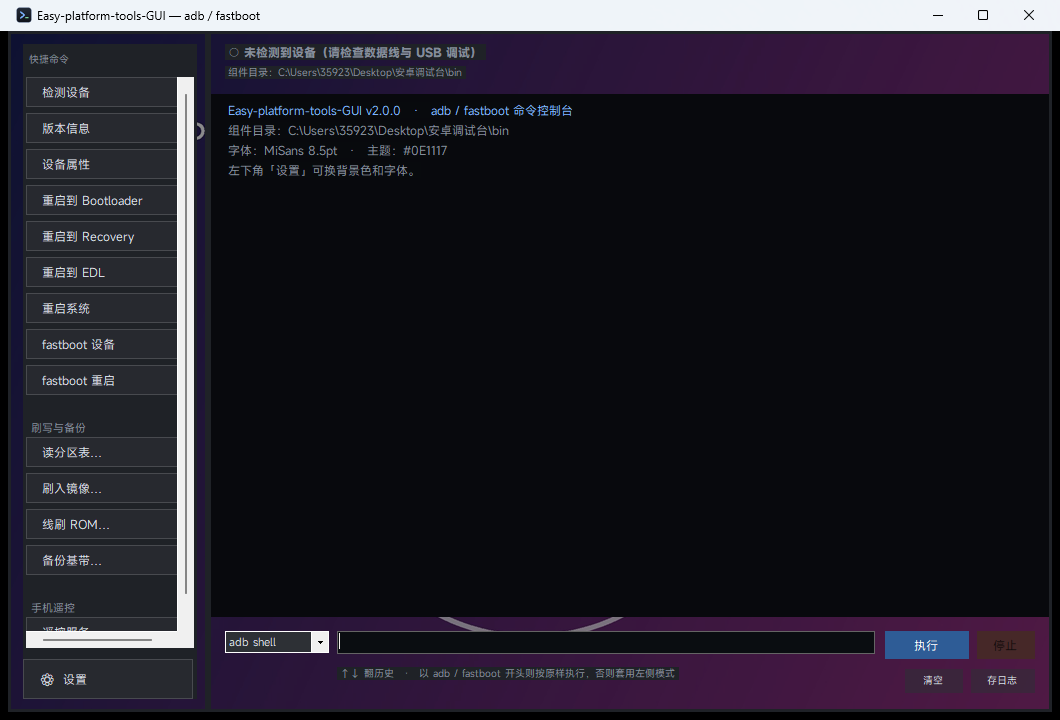
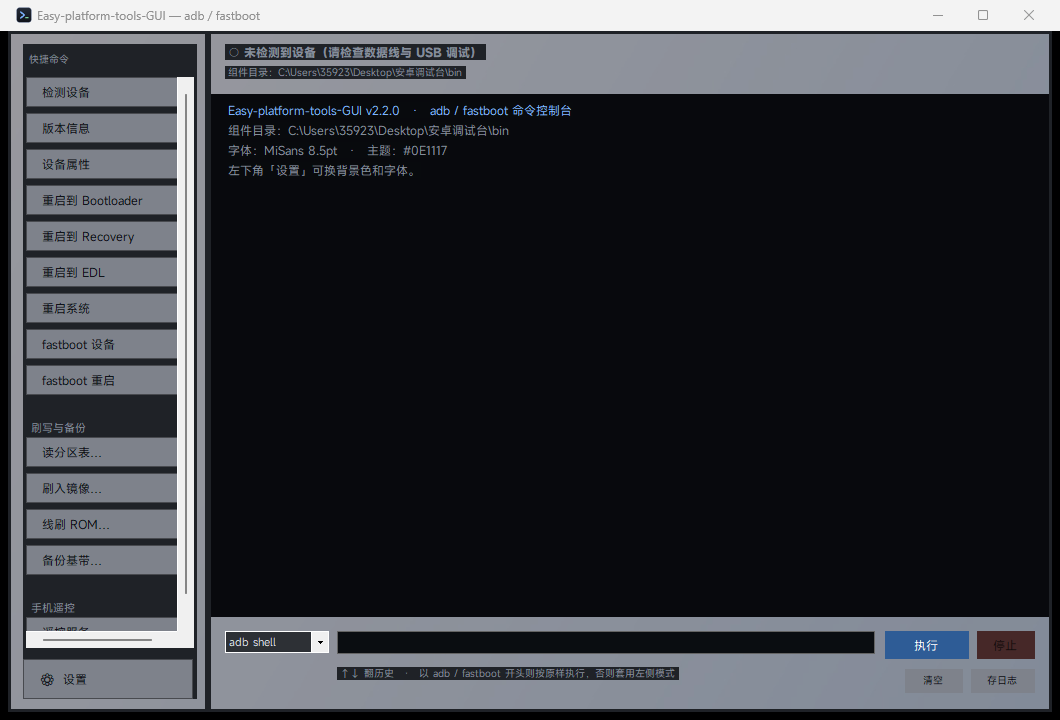
feat: 安卓沉浸状态栏；双端按钮文字按 WCAG 对比度自动黑白反色 (v2.3.0)

Changed region(s): [[0.0, 0.0, 0.9962, 1.0]]

diff --git a/android/src/com/easypt/gui/MainActivity.java b/android/src/com/easypt/gui/MainActivity.java
@@ -61,7 +61,7 @@ public class MainActivity extends Activity {
     private static final int MODE_OTG = 0, MODE_LOCAL = 1, MODE_REMOTE = 2;
     private static final int REQ_IMAGE = 1001, REQ_ROM = 1002, REQ_ROM_DIR = 1003, REQ_WALL = 1004;
     private static final String ACTION_USB_PERM = "com.easypt.gui.USB_PERMISSION";
-    private static final String VER = "2.2.0";
+    private static final String VER = "2.3.0";
 
     /** 8 套背景色，和桌面版一致 */
     private static final int[] BG = {
@@ -74,6 +74,7 @@ public class MainActivity extends Activity {
     private float scale = 1.0f;
     private String lang = "zh";
     private int btnAlpha = 90;
+    private int backdrop = 0;    // 壁纸平均色，用于自动黑白字
 
     private int cBg, cPanel, cText, cDim, cAccent, cOk, cErr, cBtn, cRun, cInput, cOut;
 
@@ -110,6 +111,7 @@ public class MainActivity extends Activity {
         pendingPart = store.getString("part", "boot");
         applyColors();
 
+        enableImmersive();
         buildUi();
         registerReceiver(usbReceiver, new IntentFilter(ACTION_USB_PERM));
         fb = new FastbootUsb(new FastbootUsb.Logger() {
@@ -155,6 +157,82 @@ public class MainActivity extends Activity {
 
     private int dp(int v) { return (int) (v * getResources().getDisplayMetrics().density); }
 
+    /** 让内容画到状态栏/导航栏下面，并按 insets 留出安全边距 */
+    private void enableImmersive() {
+        android.view.Window w = getWindow();
+        w.setStatusBarColor(Color.TRANSPARENT);
+        w.setNavigationBarColor(Color.TRANSPARENT);
+        if (Build.VERSION.SDK_INT >= 30) {
+            w.setDecorFitsSystemWindows(false);
+        } else {
+            w.getDecorView().setSystemUiVisibility(
+                    android.view.View.SYSTEM_UI_FLAG_LAYOUT_STABLE
+                            | android.view.View.SYSTEM_UI_FLAG_LAYOUT_FULLSCREEN
+                            | android.view.View.SYSTEM_UI_FLAG_LAYOUT_HIDE_NAVIGATION);
+        }
+    }
+
+    /** 深色状态栏图标与否：亮背景要黑图标 */
+    private void applyStatusBarIcons(boolean darkIcons) {
+        android.view.View dv = getWindow().getDecorView();
+        int flags = dv.getSystemUiVisibility();
+        if (Build.VERSION.SDK_INT >= 30) {
+            android.view.WindowInsetsController c = getWindow().getInsetsController();
+            if (c != null) {
+                c.setSystemBarsAppearance(darkIcons ? android.view.WindowInsetsController.APPEARANCE_LIGHT_STATUS_BARS : 0,
+                        android.view.WindowInsetsController.APPEARANCE_LIGHT_STATUS_BARS);
+            }
+            return;
+        }
+        if (darkIcons) { flags |= android.view.View.SYSTEM_UI_FLAG_LIGHT_STATUS_BAR; }
+        else { flags &= ~android.view.View.SYSTEM_UI_FLAG_LIGHT_STATUS_BAR; }
+        dv.setSystemUiVisibility(flags);
+    }
+
+    private int blendOver(int fg, int alphaPct, int bg) {
+        float a = Math.max(0, Math.min(100, alphaPct)) / 100f;
+        return Color.rgb(
+                (int) (Color.red(fg) * a + Color.red(bg) * (1 - a)),
+                (int) (Color.green(fg) * a + Color.green(bg) * (1 - a)),
+                (int) (Color.blue(fg) * a + Color.blue(bg) * (1 - a)));
+    }
+
+    /** 按背景亮度选黑字或白字 */
+    private boolean isLight(int color) {
+        return (0.299 * Color.red(color) + 0.587 * Color.green(color) + 0.114 * Color.blue(color)) > 145;
+    }
+
+    private int textOn(int bgColor) {
+        double l = relLum(bgColor);
+        double withWhite = 1.05 / (l + 0.05);
+        double withBlack = (l + 0.05) / 0.05;
+        return withBlack >= withWhite ? 0xFF10131A : 0xFFF4F7FB;
+    }
+
+    private double relLum(int c) {
+        return 0.2126 * ch(Color.red(c)) + 0.7152 * ch(Color.green(c)) + 0.0722 * ch(Color.blue(c));
+    }
+
+    private double ch(int v) {
+        double s = v / 255.0;
+        return s <= 0.03928 ? s / 12.92 : Math.pow((s + 0.055) / 1.055, 2.4);
+    }
+
+    private int averageColor(android.graphics.Bitmap b) {
+        if (b == null) { return cOut; }
+        long r = 0, g = 0, bl = 0;
+        int n = 0;
+        int sx = Math.max(1, b.getWidth() / 40), sy = Math.max(1, b.getHeight() / 40);
+        for (int y = 0; y < b.getHeight(); y += sy) {
+            for (int x = 0; x < b.getWidth(); x += sx) {
+                int p = b.getPixel(x, y);
+                r += Color.red(p); g += Color.green(p); bl += Color.blue(p); n++;
+            }
+        }
+        if (n == 0) { return cOut; }
+        return Color.rgb((int) (r / n), (int) (g / n), (int) (bl / n));
+    }
+
     private boolean hasWall() {
         String wp = store.getString("wall", "");
         return wp.length() > 0 && new File(wp).exists();
@@ -169,9 +247,12 @@ public class MainActivity extends Activity {
         android.graphics.Bitmap wallBmp = wp.length() > 0 ? fitToScreen(android.graphics.BitmapFactory.decodeFile(wp)) : null;
         if (wallBmp != null) {
             root.setBackground(new android.graphics.drawable.BitmapDrawable(getResources(), wallBmp));
+            backdrop = averageColor(wallBmp);
         } else {
             root.setBackgroundColor(cBg);
+            backdrop = cOut;
         }
+        applyStatusBarIcons(isLight(backdrop));
         root.setPadding(dp(12), dp(10), dp(12), dp(10));
 
         TextView title = new TextView(this);
@@ -275,8 +356,8 @@ public class MainActivity extends Activity {
         inputRow.addView(input, ilp);
 
         Button runBtn = smallBtn(T("执行", "Run"));
-        runBtn.setBackgroundColor(cRun);
-        runBtn.setTextColor(Color.WHITE);
+        runBtn.setBackground(pill(cRun, 10));
+        runBtn.setTextColor(textOn(blendOver(cRun, Math.max(60, btnAlpha), backdrop)));
         runBtn.setLayoutParams(new LinearLayout.LayoutParams(dp(84), dp(48)));
         runBtn.setOnClickListener(new View.OnClickListener() {
             public void onClick(View v) { runTyped(); }
@@ -284,7 +365,24 @@ public class MainActivity extends Activity {
         inputRow.addView(runBtn);
         root.addView(inputRow);
 
+        root.setOnApplyWindowInsetsListener(new View.OnApplyWindowInsetsListener() {
+            public android.view.WindowInsets onApplyWindowInsets(View v, android.view.WindowInsets insets) {
+                int top, bottom, left, right;
+                if (Build.VERSION.SDK_INT >= 30) {
+                    android.graphics.Insets i = insets.getInsets(android.view.WindowInsets.Type.systemBars());
+                    top = i.top; bottom = i.bottom; left = i.left; right = i.right;
+                } else {
+                    top = insets.getSystemWindowInsetTop();
+                    bottom = insets.getSystemWindowInsetBottom();
+                    left = insets.getSystemWindowInsetLeft();
+                    right = insets.getSystemWindowInsetRight();
+                }
+                v.setPadding(dp(12) + left, dp(10) + top, dp(12) + right, dp(10) + bottom);
+                return insets;
+            }
+        });
         setContentView(root);
+        root.requestApplyInsets();
     }
 
     private Button smallBtn(String text) {
@@ -292,7 +390,8 @@ public class MainActivity extends Activity {
         b.setText(text);
         b.setAllCaps(false);
         b.setTextSize(13 * scale);
-        b.setTextColor(cText);
+        int base = blendOver(cBtn, btnAlpha, backdrop);
+        b.setTextColor(textOn(base));
         b.setBackground(pill(cBtn, 10));
         b.setPadding(dp(10), dp(6), dp(10), dp(6));
         b.setMinHeight(dp(46));

diff --git a/src/EasyPlatformTools.cs b/src/EasyPlatformTools.cs
@@ -28,7 +28,7 @@ namespace EasyPlatformTools
 
         private const int ATTACH_PARENT_PROCESS = -1;
 
-        private const string AppVersion = "2.2.0";
+        private const string AppVersion = "2.3.0";
         private const string AppRepo = "https://github.com/moqi12386/Easy-platform-tools-GUI";
 
         // 首次运行时自动下载的镜像源：按顺序尝试，全部为官方或与官方逐字节一致的镜像
@@ -315,6 +315,7 @@ namespace EasyPlatformTools
         private static string remoteToken = "";
         private static string wallpaperPath = "";
         private static int btnAlpha = 100;
+        private static Color backdrop = Color.FromArgb(20, 22, 28);   // 用于自动黑白字
         private static string lastPtSource = "";
 
         private enum Role { Text, Cmd, Err, Ok, Dim, Warn }
@@ -1446,10 +1447,82 @@ namespace EasyPlatformTools
         }
 
         /// <summary>壁纸：把原图压暗后铺满窗体，面板设为透明让壁纸透出来</summary>
+        /// <summary>按背景亮度返回黑字或白字</summary>
+        /// <summary>按 WCAG 对比度选黑字或白字（比固定亮度阈值更靠谱）</summary>
+        private static Color ContrastText(Color bg)
+        {
+            double l = RelLum(bg);
+            double withWhite = 1.05 / (l + 0.05);
+            double withBlack = (l + 0.05) / 0.05;
+            return withBlack >= withWhite ? Color.FromArgb(16, 19, 24) : Color.FromArgb(244, 246, 250);
+        }
+
+        private static double RelLum(Color c)
+        {
+            double r = Channel(c.R), g = Channel(c.G), b = Channel(c.B);
+            return 0.2126 * r + 0.7152 * g + 0.0722 * b;
+        }
+
+        private static double Channel(int v)
+        {
+            double s = v / 255.0;
+            return s <= 0.03928 ? s / 12.92 : Math.Pow((s + 0.055) / 1.055, 2.4);
+        }
+
+        /// <summary>把带 alpha 的颜色压到底色上，得到实际观感</summary>
+        private static Color Flatten(Color c, Color over)
+        {
+            if (c.A == 255) { return c; }
+            double a = c.A / 255.0;
+            return Color.FromArgb(255,
+                (int)(c.R * a + over.R * (1 - a)),
+                (int)(c.G * a + over.G * (1 - a)),
+                (int)(c.B * a + over.B * (1 - a)));
+        }
+
+        /// <summary>按透明度把按钮色混到背景上，得到等效的不透明色（WinForms 子控件不支持真透明）</summary>
+        private static void ApplyButtonColors(Theme t)
+        {
+            foreach (Button b in menuButtons)
+            {
+                b.BackColor = WithAlpha(t.Btn);
+                b.ForeColor = ContrastText(b.BackColor);
+            }
+            if (btnClear != null) { btnClear.BackColor = WithAlpha(t.Btn); btnClear.ForeColor = ContrastText(btnClear.BackColor); }
+            if (btnSave != null) { btnSave.BackColor = WithAlpha(t.Btn); btnSave.ForeColor = ContrastText(btnSave.BackColor); }
+            if (btnSettings != null) { btnSettings.BackColor = WithAlpha(t.Btn); btnSettings.ForeColor = ContrastText(btnSettings.BackColor); }
+        }
+
         private static Color WithAlpha(Color c)
         {
             if (btnAlpha >= 100) { return c; }
-            return Color.FromArgb(Math.Max(0, Math.Min(100, btnAlpha)) * 255 / 100, c.R, c.G, c.B);
+            double a = Math.Max(0, Math.Min(100, btnAlpha)) / 100.0;
+            return Color.FromArgb(255,
+                (int)(c.R * a + backdrop.R * (1 - a)),
+                (int)(c.G * a + backdrop.G * (1 - a)),
+                (int)(c.B * a + backdrop.B * (1 - a)));
+        }
+
+        private static Color AverageColor(Bitmap bmp, Color veil)
+        {
+            try
+            {
+                long r = 0, g = 0, b = 0;
+                int n = 0;
+                int sx = Math.Max(1, bmp.Width / 40), sy = Math.Max(1, bmp.Height / 40);
+                for (int y = 0; y < bmp.Height; y += sy)
+                {
+                    for (int x = 0; x < bmp.Width; x += sx)
+                    {
+                        Color p = bmp.GetPixel(x, y);
+                        r += p.R; g += p.G; b += p.B; n++;
+                    }
+                }
+                if (n == 0) { return veil; }
+                Color avg = Color.FromArgb(255, (int)(r / n), (int)(g / n), (int)(b / n));
+                return Flatten(veil, avg);
+            }
+            catch { return veil; }
         }
 
         private static void ApplyWallpaper(Theme t)
@@ -1459,6 +1532,7 @@ namespace EasyPlatformTools
             {
                 if (form.BackgroundImage != null) { form.BackgroundImage.Dispose(); form.BackgroundImage = null; }
                 WallPanel.Wall = null;
+                backdrop = t.Panel;
                 if (panelLeft != null) { panelLeft.Invalidate(); }
                 if (panelTop != null) { panelTop.Invalidate(); }
                 if (panelBottom != null) { panelBottom.Invalidate(); }
@@ -1491,7 +1565,9 @@ namespace EasyPlatformTools
                     form.BackgroundImageLayout = ImageLayout.Stretch;
                 }
                 WallPanel.Wall = (Bitmap)form.BackgroundImage;
-                WallPanel.Veil = Color.FromArgb(t.Dark ? 120 : 110, t.Output);
+                WallPanel.Veil = Color.FromArgb(t.Dark ? 95 : 85, t.Output);
+                backdrop = AverageColor((Bitmap)form.BackgroundImage, WallPanel.Veil);
+                if (menuButtons.Count > 0) { ApplyButtonColors(t); }
                 panelLeft.Invalidate();
                 panelTop.Invalidate();
                 panelBottom.Invalidate();
@@ -1530,20 +1606,21 @@ namespace EasyPlatformTools
             btnRun.BackColor = t.RunBtn;
             btnStop.BackColor = t.StopBtn;
             btnClear.BackColor = WithAlpha(t.Btn);
-            btnClear.ForeColor = t.Text;
+            btnClear.ForeColor = ContrastText(btnClear.BackColor);
             btnSave.BackColor = WithAlpha(t.Btn);
-            btnSave.ForeColor = t.Text;
+            btnSave.ForeColor = ContrastText(btnSave.BackColor);
 
             if (btnSettings != null)
             {
                 btnSettings.BackColor = WithAlpha(t.Btn);
-                btnSettings.ForeColor = t.Text;
+                btnSettings.ForeColor = ContrastText(btnSettings.BackColor);
                 btnSettings.FlatAppearance.BorderColor = t.Border;
             }
 
             foreach (Button b in menuButtons)
             {
                 b.BackColor = WithAlpha(t.Btn);
+                b.ForeColor = ContrastText(b.BackColor);
                 b.ForeColor = t.Text;
                 b.FlatAppearance.BorderColor = t.Border;
             }

diff --git a/RELEASE-NOTES.md b/RELEASE-NOTES.md
@@ -1,42 +1,36 @@
-# Easy-platform-tools-GUI v2.2.0 — 壁纸彻底修正 + 透明度更好找
+# Easy-platform-tools-GUI v2.3.0 — 沉浸状态栏 + 文字自动反色
 
-v2.1.0 的两个问题在这版收尾：**旧壁纸不用重选也不会变形**，**透明度滑杆挪到设置最上面**。
+## 安卓：沉浸状态栏
 
-## 修了什么
+- 状态栏、导航栏都设为透明，界面画到它们下面（`setDecorFitsSystemWindows(false)`，旧系统走 `LAYOUT_FULLSCREEN`）
+- 用 `WindowInsets` 把状态栏高度、导航栏高度补成根布局的 padding，内容不会被挡
+- 状态栏图标颜色跟着壁纸平均亮度走：壁纸亮 → 黑图标，壁纸暗 → 白图标（`APPEARANCE_LIGHT_STATUS_BARS`）
 
-### 1. 旧壁纸自动重新适配（不用重新选图）
+## 双端：按钮文字自动反色
 
-之前裁好的壁纸是按旧比例存的，装上修好的版本也不会自动变。现在每次启动都会把保存的图
-**按当前屏幕尺寸重新居中裁切**一次（`fitToScreen`），所以：
+不再是固定浅色字，而是**按按钮底色算 WCAG 对比度**，挑黑字还是白字：
 
-- 以前裁坏的图，装上新版直接正常
-- 换手机、换分辨率，壁纸也不会变形
+```
+相对亮度 L = 0.2126R + 0.7152G + 0.0722B（sRGB 线性化后）
+白字对比度 = 1.05 / (L + 0.05)
+黑字对比度 = (L + 0.05) / 0.05
+取大的那个
+```
 
-### 2. 日志区透明度算错的 bug
+- 按钮半透明时，先把它**按透明度混合到底色上**再判断，所以「透明 + 浅壁纸」会自动变黑字
+- 桌面版：WinForms 子控件不支持真透明（只会取父容器 BackColor），所以直接把按钮色混到壁纸平均色上，
+  得到视觉等效的不透明色；顺带解决了"调了透明度但看不出来"的问题
+- 桌面版壁纸遮罩从 120 降到 95，浅色壁纸不再被压成灰
 
-上一版写的是 `Math.max(120, 90) * 255 / 100 = 306`，超出 0–255 后被截成 50，
-日志区变得几乎全透明，壁纸糊成一片。已改成按百分比换算并夹在 150–235 之间。
-
-### 3. 透明度滑杆位置
-
-从「字号」下面挪到**设置面板最顶部**（第一项），标签直接写当前值，滑一下立刻能看到按钮变透。
-
-## 桌面版
-
-- 版本号对齐 2.2.0，壁纸逻辑保持「等比铺满 + 居中裁切」
+![浅色壁纸 + 低透明度](https://github.com/moqi12386/Easy-platform-tools-GUI/raw/main/docs/wallpaper.png)
 
 ## 下载
 
 | 文件 | 说明 |
 |---|---|
-| `EasyPT.apk` | Android 2.2.0，44 KB，minSdk 26 |
-| `Easy-platform-tools-GUI-v2.2.0.zip` | Windows 桌面版 |
-| `Easy-platform-tools-GUI.exe` | 桌面版单文件，108 KB |
-
-## 使用提示
-
-- 设置 → **按键透明度**（第一项）：40–60% 能明显透出壁纸，太高会影响文字对比度
-- 设置 → **背景图** → 选择图片 → 拖动/缩放 → 使用
+| `EasyPT.apk` | Android 2.3.0，44 KB，minSdk 26 |
+| `Easy-platform-tools-GUI-v2.3.0.zip` | Windows 桌面版 |
+| `Easy-platform-tools-GUI.exe` | 桌面版单文件，110 KB |
 
 ## 许可
 
